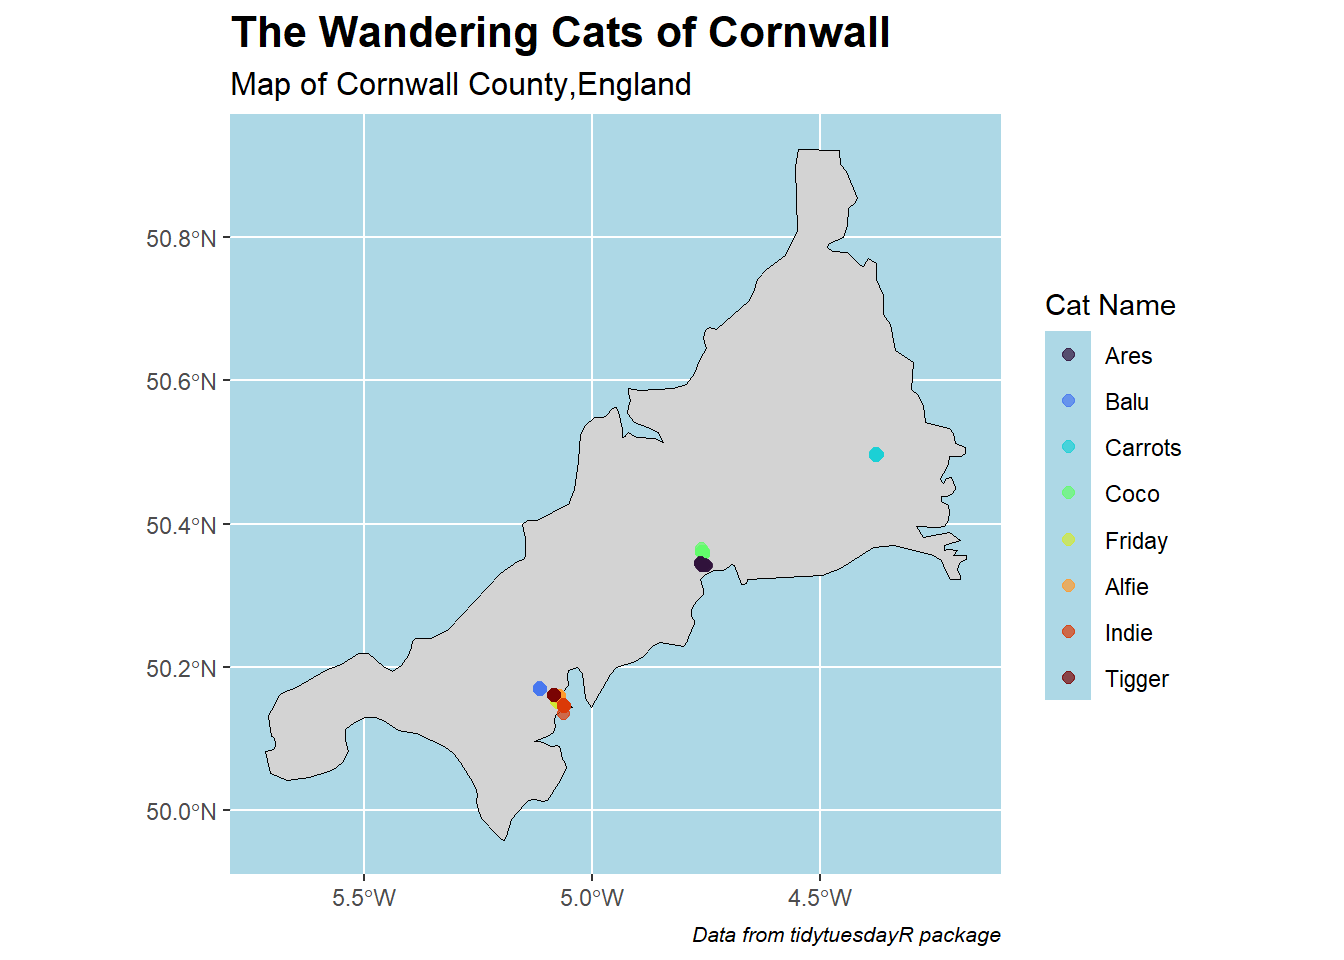
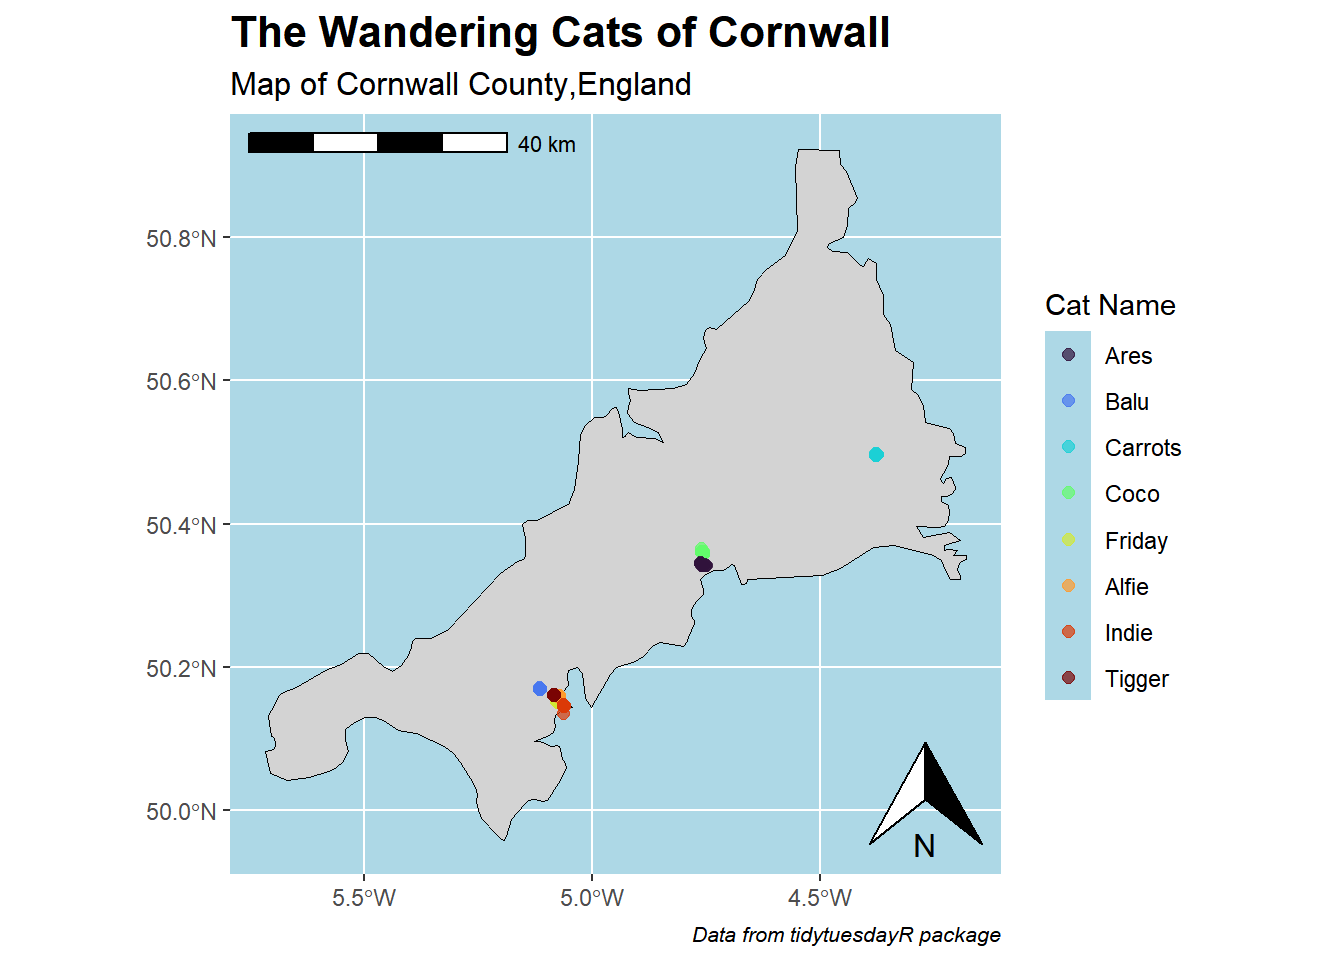
slight edit to homework

Changed region(s): [[0.1875, 0.125, 0.4375, 0.1562], [0.6562, 0.7812, 0.75, 0.875]]

diff --git a/Week_07/Scripts/Week 7 Quarto Homework Doc.html b/Week_07/Scripts/Week 7 Quarto Homework Doc.html
@@ -121,7 +121,8 @@ pre > code.sourceCode > span > a:first-child::before { text-decoration: underlin
 <span id="cb1-5"><a href="#cb1-5" aria-hidden="true" tabindex="-1"></a><span class="fu">library</span>(ggplot2)</span>
 <span id="cb1-6"><a href="#cb1-6" aria-hidden="true" tabindex="-1"></a><span class="fu">library</span>(sf)</span>
 <span id="cb1-7"><a href="#cb1-7" aria-hidden="true" tabindex="-1"></a><span class="fu">library</span>(rnaturalearth)</span>
-<span id="cb1-8"><a href="#cb1-8" aria-hidden="true" tabindex="-1"></a><span class="fu">library</span>(rnaturalearthdata)</span></code></pre></div><button title="Copy to Clipboard" class="code-copy-button"><i class="bi"></i></button></div>
+<span id="cb1-8"><a href="#cb1-8" aria-hidden="true" tabindex="-1"></a><span class="fu">library</span>(rnaturalearthdata)</span>
+<span id="cb1-9"><a href="#cb1-9" aria-hidden="true" tabindex="-1"></a><span class="fu">library</span>(ggspatial)</span></code></pre></div><button title="Copy to Clipboard" class="code-copy-button"><i class="bi"></i></button></div>
 </details>
 </div>
 <p>Step one is to load all the necessary libraries.</p>
@@ -137,7 +138,10 @@ pre > code.sourceCode > span > a:first-child::before { text-decoration: underlin
 <span id="cb2-7"><a href="#cb2-7" aria-hidden="true" tabindex="-1"></a></span>
 <span id="cb2-8"><a href="#cb2-8" aria-hidden="true" tabindex="-1"></a><span class="co">#data structure check</span></span>
 <span id="cb2-9"><a href="#cb2-9" aria-hidden="true" tabindex="-1"></a><span class="fu">head</span>(cats_uk)</span>
-<span id="cb2-10"><a href="#cb2-10" aria-hidden="true" tabindex="-1"></a><span class="fu">head</span>(cats_uk_reference)</span></code></pre></div><button title="Copy to Clipboard" class="code-copy-button"><i class="bi"></i></button></div>
+<span id="cb2-10"><a href="#cb2-10" aria-hidden="true" tabindex="-1"></a><span class="fu">head</span>(cats_uk_reference)</span>
+<span id="cb2-11"><a href="#cb2-11" aria-hidden="true" tabindex="-1"></a></span>
+<span id="cb2-12"><a href="#cb2-12" aria-hidden="true" tabindex="-1"></a><span class="co">#save cat data</span></span>
+<span id="cb2-13"><a href="#cb2-13" aria-hidden="true" tabindex="-1"></a><span class="fu">write.csv</span>(cats_uk,<span class="at">file=</span>(<span class="fu">here</span>(<span class="st">"Week_07"</span>,<span class="st">"Data"</span>,<span class="st">"cats_uk.csv"</span>)))</span></code></pre></div><button title="Copy to Clipboard" class="code-copy-button"><i class="bi"></i></button></div>
 </details>
 </div>
 <p>My goal is to use the uk_cats dataset to project locations over the United Kingdom.</p>
@@ -292,10 +296,13 @@ pre > code.sourceCode > span > a:first-child::before { text-decoration: underlin
 <span id="cb10-6"><a href="#cb10-6" aria-hidden="true" tabindex="-1"></a>                              <span class="at">subtitle =</span> <span class="st">"Map of Cornwall County,England"</span>,</span>
 <span id="cb10-7"><a href="#cb10-7" aria-hidden="true" tabindex="-1"></a>                              <span class="at">caption =</span> <span class="st">"Data from tidytuesdayR package"</span>)<span class="sc">+</span></span>
 <span id="cb10-8"><a href="#cb10-8" aria-hidden="true" tabindex="-1"></a>  <span class="fu">scale_color_viridis_d</span>(<span class="at">option =</span> <span class="st">"turbo"</span>,<span class="at">name =</span> <span class="st">"Cat Name"</span>,<span class="at">labels =</span> <span class="fu">c</span>(<span class="st">"Ares"</span>,<span class="st">"Balu"</span>,<span class="st">"Carrots"</span>,<span class="st">"Coco"</span>,<span class="st">"Friday"</span>,<span class="st">"Alfie"</span>,<span class="st">"Indie"</span>,<span class="st">"Tigger"</span>))<span class="sc">+</span></span>
-<span id="cb10-9"><a href="#cb10-9" aria-hidden="true" tabindex="-1"></a>  <span class="fu">theme</span>(<span class="at">panel.background =</span> <span class="fu">element_rect</span>(<span class="at">fill =</span> <span class="st">"lightblue"</span>),</span>
-<span id="cb10-10"><a href="#cb10-10" aria-hidden="true" tabindex="-1"></a>        <span class="at">plot.title =</span> <span class="fu">element_text</span>(<span class="at">size =</span> <span class="dv">16</span>,<span class="at">face =</span> <span class="st">"bold"</span>),</span>
-<span id="cb10-11"><a href="#cb10-11" aria-hidden="true" tabindex="-1"></a>        <span class="at">plot.subtitle =</span> <span class="fu">element_text</span>(<span class="at">size =</span> <span class="dv">12</span>),</span>
-<span id="cb10-12"><a href="#cb10-12" aria-hidden="true" tabindex="-1"></a>        <span class="at">plot.caption =</span> <span class="fu">element_text</span>(<span class="at">size =</span> <span class="dv">8</span>,<span class="at">face =</span> <span class="st">"italic"</span>))</span></code></pre></div><button title="Copy to Clipboard" class="code-copy-button"><i class="bi"></i></button></div>
+<span id="cb10-9"><a href="#cb10-9" aria-hidden="true" tabindex="-1"></a>  <span class="fu">annotation_scale</span>(<span class="at">location =</span> <span class="st">"tl"</span>,</span>
+<span id="cb10-10"><a href="#cb10-10" aria-hidden="true" tabindex="-1"></a>                   <span class="at">width_hint =</span> <span class="fl">0.4</span>)<span class="sc">+</span></span>
+<span id="cb10-11"><a href="#cb10-11" aria-hidden="true" tabindex="-1"></a>  <span class="fu">annotation_north_arrow</span>(<span class="at">location =</span> <span class="st">"br"</span>)<span class="sc">+</span></span>
+<span id="cb10-12"><a href="#cb10-12" aria-hidden="true" tabindex="-1"></a>  <span class="fu">theme</span>(<span class="at">panel.background =</span> <span class="fu">element_rect</span>(<span class="at">fill =</span> <span class="st">"lightblue"</span>),</span>
+<span id="cb10-13"><a href="#cb10-13" aria-hidden="true" tabindex="-1"></a>        <span class="at">plot.title =</span> <span class="fu">element_text</span>(<span class="at">size =</span> <span class="dv">16</span>,<span class="at">face =</span> <span class="st">"bold"</span>),</span>
+<span id="cb10-14"><a href="#cb10-14" aria-hidden="true" tabindex="-1"></a>        <span class="at">plot.subtitle =</span> <span class="fu">element_text</span>(<span class="at">size =</span> <span class="dv">12</span>),</span>
+<span id="cb10-15"><a href="#cb10-15" aria-hidden="true" tabindex="-1"></a>        <span class="at">plot.caption =</span> <span class="fu">element_text</span>(<span class="at">size =</span> <span class="dv">8</span>,<span class="at">face =</span> <span class="st">"italic"</span>))</span></code></pre></div><button title="Copy to Clipboard" class="code-copy-button"><i class="bi"></i></button></div>
 </details>
 <div class="cell-output-display">
 <div class="quarto-figure quarto-figure-center">

diff --git a/README.md b/README.md
@@ -35,6 +35,6 @@ Thesis data design
 Quarto Submissions
 * [Week 6 Quarto Class Practice](https://01a11368-0754-018c-ea5a-ce8440fc4a66.share.connect.posit.cloud/)
 * [Week 6 Quarto Submission](https://01a1133d-59e3-62e9-d795-fcd93422cd05.share.connect.posit.cloud/)
-* [Week 7 Quarto Submission](https://01a136ef-906c-71df-473a-3f99e7b321e5.share.connect.posit.cloud/)
+* [Week 7 Quarto Submission](https://01a13734-21d9-7d46-bd41-5f2642e68e37.share.connect.posit.cloud/)
  
  *Last edited by Nick Mattson on 10-13-2026*
